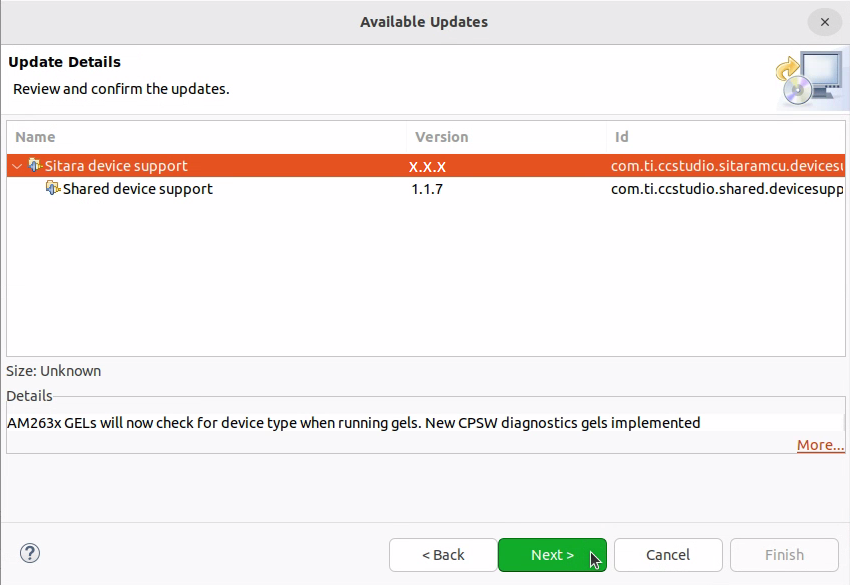
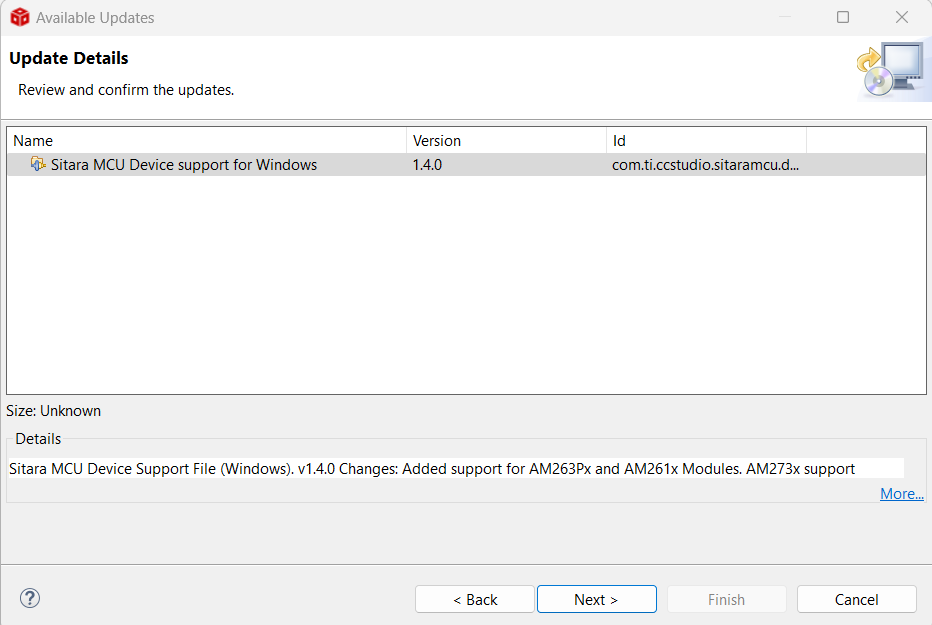
am261x: docs: am261x doc updates
- update CCS Install page to add steps to do CSP update for am261x
- add bootmode settings images for am261x-som board

Fixes: MCUSDK-14369

diff --git a/docs_src/docs/api_guide/device/am261x/am261x_evm_setup.md b/docs_src/docs/api_guide/device/am261x/am261x_evm_setup.md
@@ -67,32 +67,88 @@ Important cable connections, ports and switches.
 
 #### OSPI BOOT MODE  {#BOOTMODE_OSPI}
 
+This mode is used to boot flashed applications via EVM flash like OSPI flash.
+
 ##### AM261X-LP
-This mode is used to boot flashed applications via EVM flash like OSPI flash
+
+\code
+BOOTMODE [ 1 : 4 ] (SW1) = 0011
+\endcode
 
   \imageStyle{am261x_lp_boot_pins_ospi.png,width:30%}
   \image html am261x_lp_boot_pins_ospi.png "OSPI BOOT MODE"
 
+##### AM261X-SOM
+
+\code
+BOOTMODE [ 1 : 4 ] (SW1) = 1100
+\endcode
+
+  \imageStyle{am261x_som_boot_pins_ospi.png,width:25%}
+  \image html am261x_som_boot_pins_ospi.png "OSPI BOOT MODE"
+
 #### UART BOOT MODE  {#BOOTMODE_UART}
 
-##### AM261X-LP
 This mode is used to flash files to the EVM flash via UART. It can also be used to boot applications via UART.
+
+##### AM261X-LP
+
+\code
+BOOTMODE [ 1 : 4 ] (SW1) = 0111
+\endcode
 
   \imageStyle{am261x_lp_boot_pins_uart_mode.png,width:30%}
   \image html am261x_lp_boot_pins_uart_mode.png "UART BOOT MODE"
 
+##### AM261X-SOM
+
+\code
+BOOTMODE [ 1 : 4 ] (SW1) = 1000
+\endcode
+
+  \imageStyle{am261x_som_boot_pins_uart_mode.png,width:25%}
+  \image html am261x_som_boot_pins_uart_mode.png "UART BOOT MODE"
+
 #### DEVBOOT MODE  {#BOOTMODE_NOBOOT}
 
-##### AM261X-LP
 This mode is used in CCS.
+
+##### AM261X-LP
+
+\code
+BOOTMODE [ 1 : 4 ] (SW1) = 0010
+\endcode
 
   \imageStyle{am261x_lp_boot_pins_noboot_mode.png,width:30%}
   \image html am261x_lp_boot_pins_noboot_mode.png "NO BOOT MODE"
 
+##### AM261X-SOM
+
+\code
+BOOTMODE [ 1 : 4 ] (SW1) = 1101
+\endcode
+
+  \imageStyle{am261x_som_boot_pins_noboot_mode.png,width:25%}
+  \image html am261x_som_boot_pins_noboot_mode.png "NO BOOT MODE"
+
 #### DFU BOOT MODE  {#BOOTMODE_DFU}
 
-##### AM261X-LP
 This mode is used with DFU bootloader and DFU Uniflash.
+
+##### AM261X-LP
+
+\code
+BOOTMODE [ 1 : 4 ] (SW1) = 1000
+\endcode
 
   \imageStyle{am261x_lp_boot_pins_dfu_mode.png,width:30%}
   \image html am261x_lp_boot_pins_dfu_mode.png "DFU BOOT MODE"
+
+##### AM261X-SOM
+
+\code
+BOOTMODE [ 1 : 4 ] (SW1) = 0111
+\endcode
+
+  \imageStyle{am261x_som_boot_pins_dfu_mode.png,width:25%}
+  \image html am261x_som_boot_pins_dfu_mode.png "DFU BOOT MODE"

diff --git a/docs_src/docs/api_guide/getting_started/ccs_setup.md b/docs_src/docs/api_guide/getting_started/ccs_setup.md
@@ -61,24 +61,23 @@
 \cond SOC_AM261X
 ## Enabling AM261x Device Support in Code Composer Studio (CCS)
 
-1. Add the CCS - CSP (Chip Support Package):
-   - Download the CSP from the TI Drive. Contact your TI representative to get the CSP package.
-   - Copy the CSP inside the CCS installation directory at `C:\ti\<ccs_version>\ccs\ccs_base/ccs_base`.
-   - Follow the instructions in the documentation provided with the CSP data for more details.
-2. Update the timestamp:
-   - To update the device list in CCS, close CCS and navigate to `C:\ti\<ccs_version>\ccs\ccs_base\common\targetdb`.
-   - Open a command line and run the following:
-     - Windows: `copy /b timestamp ,,+`
-     - Linux: `touch timestamp`
-   - Open CCS, and check if the AM261x is present in the device list of the new project.
-3. Import the project:
-   - Go to `File -> Import`.
-   - Select `CCS projects`.
-   - Select the search-directory and browse to `SDK_PATH/examples/hello_world/am261x-lp/r5fss0-0_nortos/ti-arm-clang/`.
-   - Click `Import`.
-   - If the SDK product was not correctly recognized in CCS, preventing the SDK project from being imported, go to the CCS menu -> `windows -> code composer studio -> products`, and refresh the products to solve the issue.
+- Launch CCS. Go to Help ---> Check for Updates
 
-\note After importing the application, go to the project settings and select the correct SysConfig that includes the AM261 device data.
+    \imageStyle{ccs_update_check.png,width:30%}
+    \image html ccs_update_check.png "Check for Updates Menu"
+
+- The window will list the available updates. Select "Sitara device support" and click next.
+
+    \imageStyle{ccs_update_avail.png,width:40%}
+    \image html ccs_update_avail.png "List of available updates"
+
+- The window will show the update details for confirmation. Click next.
+
+    \imageStyle{ccs_update_details.png,width:40%}
+    \image html ccs_update_details.png "Update details"
+
+- Accept the license agreement and click Finish.
+- Restart CCS when prompted.
 
 \endcond
 